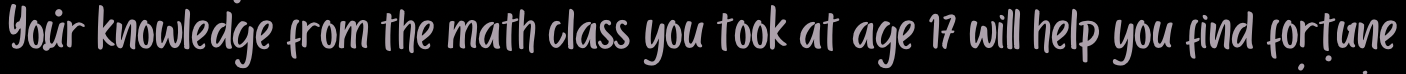
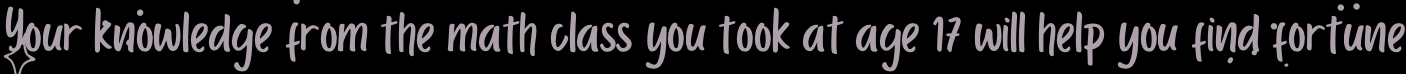
fortune img

diff --git a/src/Screen/FortunePanel.java b/src/Screen/FortunePanel.java
@@ -5,7 +5,7 @@ import java.awt.Image;
 
 import javax.swing.*;
 
-public class FortunePanel extends JPanel{
+public class FortunePanel extends JPanel {
 	
 	public FortunePanel() {
 		
@@ -26,9 +26,34 @@ public class FortunePanel extends JPanel{
 	    fortuneButton.setBackground(Color.BLACK);
 	    fortuneButton.setBorderPainted(true);
 	    
+	    //fortune
+//	    ImageIcon fortune1Icon = new ImageIcon("img//fortune1.png");
+//	    Image fortune1IconNew = fortune1Icon.getImage();
+//		Image fortune1IconModified = fortune1IconNew.getScaledInstance(383, 37, Image.SCALE_SMOOTH);
+//		fortune1Icon = new ImageIcon(fortune1IconModified);
+//		JLabel fortune1Label = new JLabel(fortune1Icon);
+//		fortune1Label.setBounds(613, 756, 383, 37);
+		
+//		ImageIcon fortune2Icon = new ImageIcon("img//fortune2.png");
+//	    Image fortune2IconNew = fortune2Icon.getImage();
+//		Image fortune2IconModified = fortune2IconNew.getScaledInstance(557, 37, Image.SCALE_SMOOTH);
+//		fortune2Icon = new ImageIcon(fortune2IconModified);
+//		JLabel fortune2Label = new JLabel(fortune2Icon);
+//		fortune2Label.setBounds(520, 756, 557, 37);
+	    
+	    ImageIcon fortune3Icon = new ImageIcon("img//fortune3.png");
+	    Image fortune3IconNew = fortune3Icon.getImage();
+		Image fortune3IconModified = fortune3IconNew.getScaledInstance(703, 37, Image.SCALE_SMOOTH);
+		fortune3Icon = new ImageIcon(fortune3IconModified);
+		JLabel fortune3Label = new JLabel(fortune3Icon);
+		fortune3Label.setBounds(448, 756, 703, 37);
 	    
 	    fortuneLabel.add(fortuneButton);
 		add(fortuneLabel);
+		
+//		fortuneLabel.add(fortune1Label);
+//		fortuneLabel.add(fortune2Label);
+		fortuneLabel.add(fortune3Label);
 	}
 	
 }

diff --git a/src/Core/Main.java b/src/Core/Main.java
@@ -7,14 +7,14 @@ import Screen.*;
 
 public class Main {
 	public static void main(String args[]) {
-		July17 window = new July17();
-		//JFrame window = new JFrame();
+//		July17 window = new July17();
+		JFrame window = new JFrame();
 		window.setSize(1600, 900);
 	    window.setDefaultCloseOperation(JFrame.EXIT_ON_CLOSE);
 	    
-//	    FortunePanel calculator = new FortunePanel();
-//	    Container c = window.getContentPane();
-//	    c.add(calculator);
+	    FortunePanel calculator = new FortunePanel();
+	    Container c = window.getContentPane();
+	    c.add(calculator);
 
 	    window.setVisible(true);
 	    

diff --git a/src/Core/July17.java b/src/Core/July17.java
@@ -13,7 +13,7 @@ public class July17 extends JFrame implements ActionListener {
 	JButton goMenu1, goMenu2, goMenu3, goCalculator, goFortune, goInfo, calcButton;
 	ImageIcon backButton = new ImageIcon("img//backButton.png");
 	Image backButtonNew = backButton.getImage();
-	Image backButtonModified = backButtonNew.getScaledInstance(160, 74, Image.SCALE_SMOOTH);
+	Image backButtonModified = backButtonNew.getScaledInstance(50, 50, Image.SCALE_SMOOTH);
 	backButton = new ImageIcon(backButtonModified);
 	
 	private String[] mathOptions = {"0", "1", "2", "3", "4+"};
